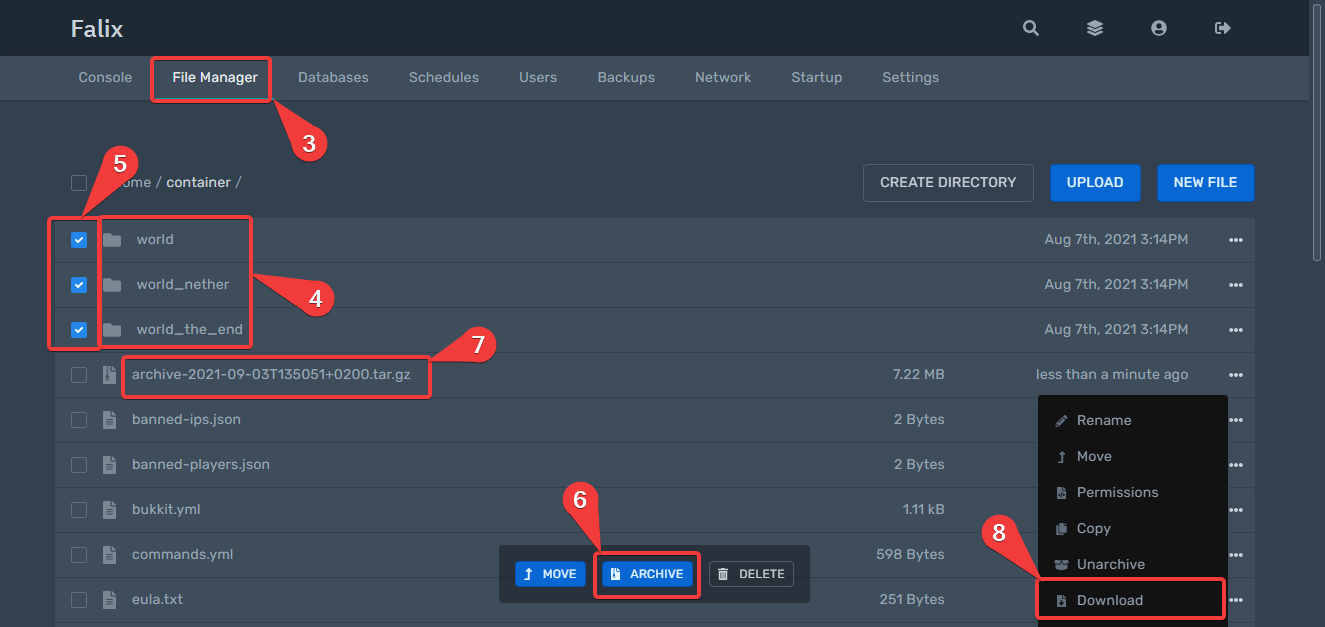
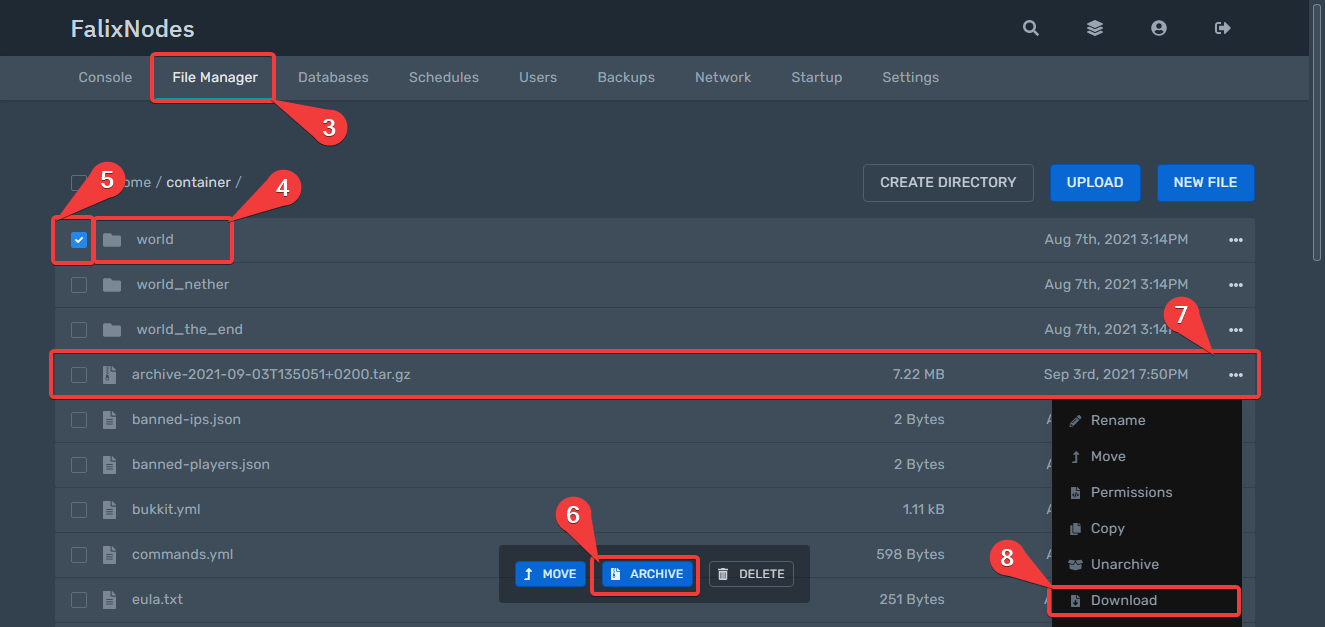
Removed "s"

diff --git a/_posts/minecraft/general/2021-08-31-Uploading-downloading-your-world-files.md b/_posts/minecraft/general/2021-08-31-Uploading-downloading-your-world-files.md
@@ -32,7 +32,7 @@ This guide explains how to download a world from your server!
 2. Click on your server.
 3. Click on "File Manager" at the top of the page.
 4. Locate your world folder, it is usually called `world`.
-5. Check the boxes to the left of your world folder.
+5. Check the box to the left of your world folder.
 6. Click on "archive" at the bottom of the page.
 7. A new file should be created, locate it and click on the 3 dots to its right.
 8. Click on "download".
